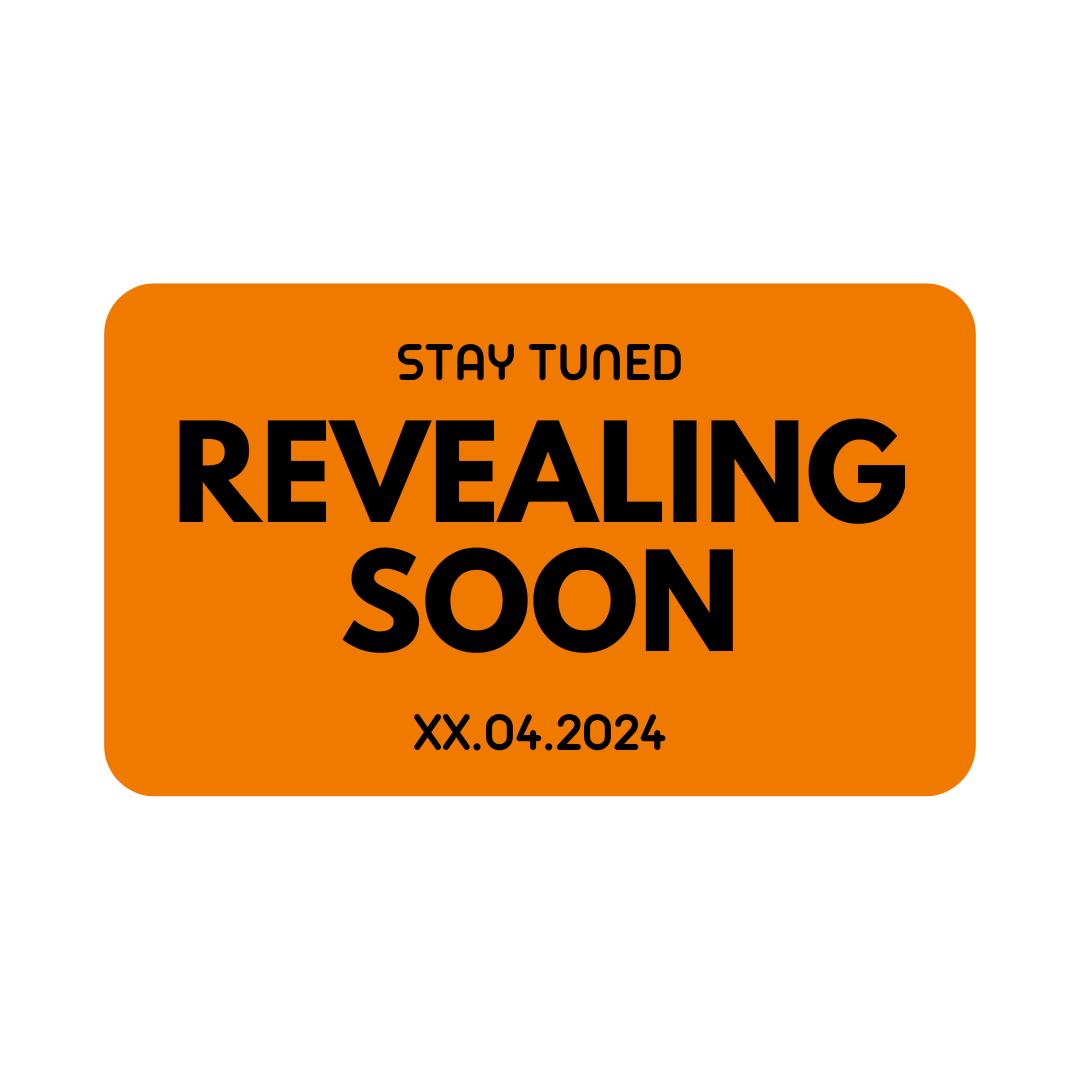
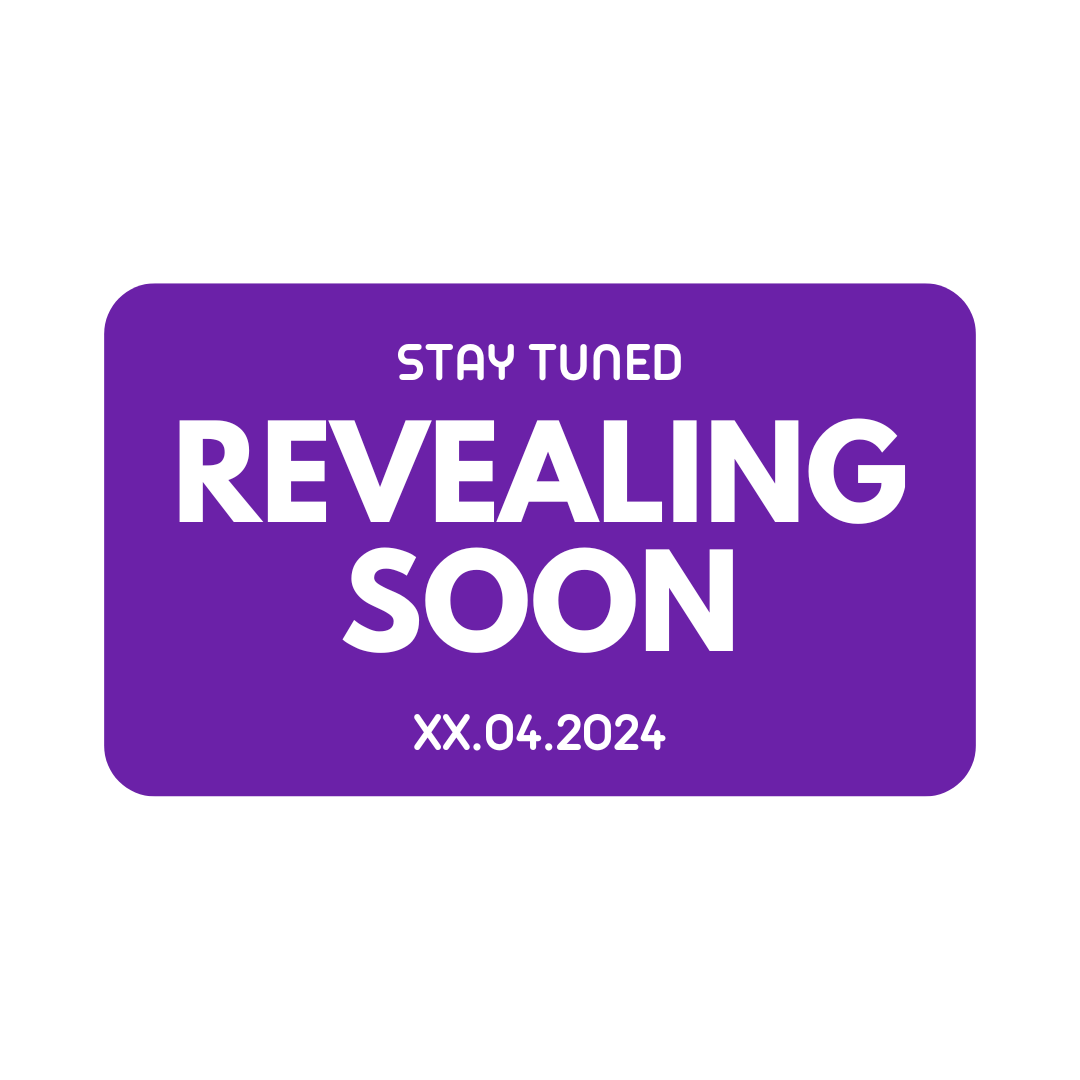
some changes

diff --git a/src/containers/Prizes.jsx b/src/containers/Prizes.jsx
@@ -1,5 +1,5 @@
 import React from "react";
-import prize from "../assets/comingsoon.jpeg";
+import prize from "../assets/comingsoon.png";
 import vector from "../assets/Vector.svg";
 import star2 from '../assets/star2.svg'
 import wolf from '../assets/wolfram-logo.png'
@@ -42,7 +42,7 @@ const Prizes = () => {
               </div>
               <div className="flex items-center justify-start w-full flex-col max-w-4xl lg:w-full">
                 <div className="flex items-center justify-between w-full flex-row border-t-2 border-white border-b-2 px-1 py-6">
-                  <h1 className="flex items-center justify-center gap-4 text-2xl xs:text-3xl s:text-4xl md:text-5xl lg:text-6xl xl:text-7xl text-[#ffffff] font-black">
+                  <h1 className="flex text-purple-800 items-center justify-center gap-4 text-2xl xs:text-3xl s:text-4xl md:text-5xl lg:text-6xl xl:text-7xl  font-black">
                     Prize Pool
                   </h1>
                   <h1 className="flex items-center justify-center gap-4 text-2xl xs:text-3xl s:text-4xl md:text-5xl lg:text-6xl xl:text-7xl text-[#ffffff] font-black">
@@ -58,7 +58,7 @@ const Prizes = () => {
                   </h1>
                 </div>
                 <div className="flex items-center justify-between w-full flex-row border-t-2 border-white border-b-2 px-1 py-6">
-                  <h1 className="flex items-center justify-center gap-4 text-2xl xs:text-3xl s:text-4xl md:text-5xl lg:text-6xl xl:text-7xl text-[#ffffff] font-black">
+                  <h1 className="flex items-center justify-center gap-4 text-2xl xs:text-3xl s:text-4xl md:text-5xl lg:text-6xl xl:text-7xl text-purple-800 font-black">
                     Goodies
                   </h1>
                   <h1 className="flex items-center justify-center gap-4 text-2xl xs:text-3xl s:text-4xl md:text-5xl lg:text-6xl xl:text-7xl text-[#ffffff] font-black">
@@ -114,7 +114,7 @@ const Prizes = () => {
       <section className="w-screen h-full md:overflow-hidden relative bg-black">
         <div className=" h-full flex flex-col items-center justify-center w-full z-[10] p-2">
           <div className="text-white z-10">
-            <div className=" xl:text-7xl lg:text-6xl md:text-4xl font-bold uppercase z-[10]">
+            <div className=" xl:text-7xl lg:text-6xl text-purple-800 md:text-4xl font-bold uppercase z-[10]">
               <p>Title Sponsor</p>
             </div>
           </div> 
@@ -135,7 +135,7 @@ const Prizes = () => {
             </Swiper>
           </div>
           <div className="text-white z-10">
-            <div className=" xl:text-7xl lg:text-6xl md:text-4xl font-bold uppercase z-[10]">
+            <div className=" xl:text-7xl text-purple-800 lg:text-6xl md:text-4xl font-bold uppercase z-[10]">
               <p>Platinum Sponsor</p>
             </div>
           </div>
@@ -170,7 +170,7 @@ const Prizes = () => {
             </Swiper>
           </div>
           <div className="text-white z-10">
-            <div className=" xl:text-7xl lg:text-6xl md:text-4xl  font-bold uppercase z-[10]">
+            <div className=" xl:text-7xl text-purple-800 lg:text-6xl md:text-4xl  font-bold uppercase z-[10]">
               <p>Gold Sponsor</p>
             </div>
           </div>
@@ -221,7 +221,7 @@ const Prizes = () => {
             </Swiper>
           </div>
           <div className="text-white z-10">
-            <div className=" xl:text-7xl lg:text-6xl md:text-4xl font-bold uppercase z-[10]">
+            <div className=" xl:text-7xl text-purple-800 lg:text-6xl md:text-4xl font-bold uppercase z-[10]">
               <p>Silver Sponsor</p>
             </div>
           </div>
@@ -280,7 +280,7 @@ const Prizes = () => {
             </Swiper>
           </div>
           <div className="text-white z-10">
-            <div className=" xl:text-7xl lg:text-6xl md:text-4xl  font-bold uppercase z-[10]">
+            <div className=" xl:text-7xl text-purple-800 lg:text-6xl md:text-4xl  font-bold uppercase z-[10]">
               <p>Bronze Sponsor</p>
             </div>
           </div>
@@ -353,16 +353,16 @@ const Prizes = () => {
 
         </div>
         <div className="h-screen hidden md:flex items-center justify-center absolute top-0 bottom-0 left-0 right-0  w-full ">
-          <div className="flex w-full h-full items-center  justify-center py-0 sm:py-2 md:py-4 lg:py-6"><marquee className="py-10 xs:py-12 rotate-[45deg] w-full h-full"><h1 className="flex items-center justify-center gap-4 text-2xl xs:text-3xl s:text-4xl md:text-5xl lg:text-6xl xl:text-7xl text-[#F07900]/20 font-black">DESIGN YOUR IDEAS <img className='w-8 h-8' src={star2} alt="star2" /> BUILD YOUR IDEAS</h1></marquee></div>
+          <div className="flex w-full h-full items-center  justify-center py-0 sm:py-2 md:py-4 lg:py-6"><marquee className="py-10 xs:py-12 rotate-[45deg] w-full h-full"><h1 className="flex items-center justify-center gap-4 text-2xl xs:text-3xl s:text-4xl md:text-5xl lg:text-6xl xl:text-7xl text-white/20 font-black">DESIGN YOUR IDEAS <img className='w-8 h-8' src={star2} alt="star2" /> BUILD YOUR IDEAS</h1></marquee></div>
         </div>
         <div className="h-screen hidden md:flex items-center justify-center w-full absolute top-0 bottom-0 left-0 right-0 ">
-          <div className="flex w-full h-full items-center  justify-center py-0 sm:py-2 md:py-4 lg:py-6"><marquee className="py-10 xs:py-12 rotate-[-45deg] w-full h-full"><h1 className="flex items-center justify-center gap-4 text-2xl xs:text-3xl s:text-4xl md:text-5xl lg:text-6xl xl:text-7xl text-[#F07900]/20 font-black">DESIGN YOUR IDEAS <img className='w-8 h-8' src={star2} alt="star2" /> BUILD YOUR IDEAS</h1></marquee></div>
+          <div className="flex w-full h-full items-center  justify-center py-0 sm:py-2 md:py-4 lg:py-6"><marquee className="py-10 xs:py-12 rotate-[-45deg] w-full h-full"><h1 className="flex items-center justify-center gap-4 text-2xl xs:text-3xl s:text-4xl md:text-5xl lg:text-6xl xl:text-7xl text-white/20 font-black">DESIGN YOUR IDEAS <img className='w-8 h-8' src={star2} alt="star2" /> BUILD YOUR IDEAS</h1></marquee></div>
         </div>
         <div className="h-screen hidden md:flex items-center justify-center w-full absolute top-0 bottom-0 left-0 right-0 ">
-          <div className="flex w-full h-full items-center  justify-center py-0 sm:py-2 md:py-4 lg:py-6"><marquee className="py-10 xs:py-12 rotate-[-135deg] w-full h-full"><h1 className="flex items-center justify-center gap-4 text-2xl xs:text-3xl s:text-4xl md:text-5xl lg:text-6xl xl:text-7xl text-[#F07900]/20 font-black">DESIGN YOUR IDEAS <img className='w-8 h-8' src={star2} alt="star2" /> BUILD YOUR IDEAS</h1></marquee></div>
+          <div className="flex w-full h-full items-center  justify-center py-0 sm:py-2 md:py-4 lg:py-6"><marquee className="py-10 xs:py-12 rotate-[-135deg] w-full h-full"><h1 className="flex items-center justify-center gap-4 text-2xl xs:text-3xl s:text-4xl md:text-5xl lg:text-6xl xl:text-7xl text-white/20 font-black">DESIGN YOUR IDEAS <img className='w-8 h-8' src={star2} alt="star2" /> BUILD YOUR IDEAS</h1></marquee></div>
         </div>
         <div className="h-screen hidden md:flex items-center justify-center w-full absolute top-0 bottom-0 left-0 right-0 ">
-          <div className="flex w-full h-full items-center  justify-center py-0 sm:py-2 md:py-4 lg:py-6"><marquee className="py-10 xs:py-12 rotate-[135deg] w-full h-full"><h1 className="flex items-center justify-center gap-4 text-2xl xs:text-3xl s:text-4xl md:text-5xl lg:text-6xl xl:text-7xl text-[#F07900]/20 font-black">DESIGN YOUR IDEAS <img className='w-8 h-8' src={star2} alt="star2" /> BUILD YOUR IDEAS</h1></marquee></div>
+          <div className="flex w-full h-full items-center  justify-center py-0 sm:py-2 md:py-4 lg:py-6"><marquee className="py-10 xs:py-12 rotate-[135deg] w-full h-full"><h1 className="flex items-center justify-center gap-4 text-2xl xs:text-3xl s:text-4xl md:text-5xl lg:text-6xl xl:text-7xl text-white/20 font-black">DESIGN YOUR IDEAS <img className='w-8 h-8' src={star2} alt="star2" /> BUILD YOUR IDEAS</h1></marquee></div>
         </div>
 
       </section>

diff --git a/src/App.js b/src/App.js
@@ -19,16 +19,16 @@ function App() {
     <>
     {loading && window.innerWidth>768 ? (<section className="md:flex hidden w-screen h-full overflow-hidden relative bg-black">
       <div className="h-screen flex items-center justify-center w-full ">
-                           <div className="flex w-full h-full items-center  justify-center py-0 sm:py-2 md:py-4 lg:py-6"><marquee className="py-10 xs:py-12 rotate-[45deg] w-full h-full" scrollamount="15"><h1 className="flex items-center justify-center gap-4 text-2xl xs:text-3xl s:text-4xl md:text-5xl lg:text-6xl xl:text-7xl text-[#F07900] font-black">DESIGN YOUR IDEAS <img className='w-8 h-8' src={star2} alt="star2"/> BUILD YOUR IDEAS</h1></marquee></div>
+                           <div className="flex w-full h-full items-center  justify-center py-0 sm:py-2 md:py-4 lg:py-6"><marquee className="py-10 xs:py-12 rotate-[45deg] w-full h-full" scrollamount="15"><h1 className="flex items-center justify-center gap-4 text-2xl xs:text-3xl s:text-4xl md:text-5xl lg:text-6xl xl:text-7xl text-purple-800 font-black">DESIGN YOUR IDEAS <img className='w-8 h-8' src={star2} alt="star2"/> BUILD YOUR IDEAS</h1></marquee></div>
                    </div>
       <div className="h-screen flex items-center justify-center w-full absolute top-0 bottom-0 left-0 right-0 ">
-                           <div className="flex w-full h-full items-center  justify-center py-0 sm:py-2 md:py-4 lg:py-6"><marquee className="py-10 xs:py-12 rotate-[-45deg] w-full h-full" scrollamount="15"><h1 className="flex items-center justify-center gap-4 text-2xl xs:text-3xl s:text-4xl md:text-5xl lg:text-6xl xl:text-7xl text-[#F07900] font-black">DESIGN YOUR IDEAS <img className='w-8 h-8' src={star2} alt="star2"/> BUILD YOUR IDEAS</h1></marquee></div>
+                           <div className="flex w-full h-full items-center  justify-center py-0 sm:py-2 md:py-4 lg:py-6"><marquee className="py-10 xs:py-12 rotate-[-45deg] w-full h-full" scrollamount="15"><h1 className="flex items-center justify-center gap-4 text-2xl xs:text-3xl s:text-4xl md:text-5xl lg:text-6xl xl:text-7xl text-purple-800 font-black">DESIGN YOUR IDEAS <img className='w-8 h-8' src={star2} alt="star2"/> BUILD YOUR IDEAS</h1></marquee></div>
                    </div>
       <div className="h-screen flex items-center justify-center w-full absolute top-0 bottom-0 left-0 right-0 ">
-                           <div className="flex w-full h-full items-center  justify-center py-0 sm:py-2 md:py-4 lg:py-6"><marquee className="py-10 xs:py-12 rotate-[-135deg] w-full h-full" scrollamount="15"><h1 className="flex items-center justify-center gap-4 text-2xl xs:text-3xl s:text-4xl md:text-5xl lg:text-6xl xl:text-7xl text-[#F07900] font-black">DESIGN YOUR IDEAS <img className='w-8 h-8' src={star2} alt="star2"/> BUILD YOUR IDEAS</h1></marquee></div>
+                           <div className="flex w-full h-full items-center  justify-center py-0 sm:py-2 md:py-4 lg:py-6"><marquee className="py-10 xs:py-12 rotate-[-135deg] w-full h-full" scrollamount="15"><h1 className="flex items-center justify-center gap-4 text-2xl xs:text-3xl s:text-4xl md:text-5xl lg:text-6xl xl:text-7xl text-purple-800 font-black">DESIGN YOUR IDEAS <img className='w-8 h-8' src={star2} alt="star2"/> BUILD YOUR IDEAS</h1></marquee></div>
                    </div>
       <div className="h-screen flex items-center justify-center w-full absolute top-0 bottom-0 left-0 right-0 ">
-                           <div className="flex w-full h-full items-center  justify-center py-0 sm:py-2 md:py-4 lg:py-6"><marquee className="py-10 xs:py-12 rotate-[135deg] w-full h-full" scrollamount="15"><h1 className="flex items-center justify-center gap-4 text-2xl xs:text-3xl s:text-4xl md:text-5xl lg:text-6xl xl:text-7xl text-[#F07900] font-black">DESIGN YOUR IDEAS <img className='w-8 h-8' src={star2} alt="star2"/> BUILD YOUR IDEAS</h1></marquee></div>
+                           <div className="flex w-full h-full items-center  justify-center py-0 sm:py-2 md:py-4 lg:py-6"><marquee className="py-10 xs:py-12 rotate-[135deg] w-full h-full" scrollamount="15"><h1 className="flex items-center justify-center gap-4 text-2xl xs:text-3xl s:text-4xl md:text-5xl lg:text-6xl xl:text-7xl text-purple-800 font-black">DESIGN YOUR IDEAS <img className='w-8 h-8' src={star2} alt="star2"/> BUILD YOUR IDEAS</h1></marquee></div>
                    </div>
       </section>
       

diff --git a/src/containers/Socials.jsx b/src/containers/Socials.jsx
@@ -18,7 +18,7 @@ const Socials = () => {
            <div className='flex items-center justify-center flex-1 py-4 md:p-4 flex-col gap-4 w-full h-full'>
            <div className='w-full h-full flex items-center  justify-center flex-col gap-4'>
                  <div className='flex items-center justify-center'>
-                 <h1 className='text-[2.25rem]  xs:text-[2.7rem] sm:text-5xl lg:text-6xl font-black sm:leading-tight text-[#ffffff] whitespace-nowrap'>FOLLOW US</h1>
+                 <h1 className='text-[2.25rem]  xs:text-[2.7rem] sm:text-5xl lg:text-6xl font-black sm:leading-tight text-purple-800 whitespace-nowrap'>FOLLOW US</h1>
                  </div>
                  <div className='flex items-center justify-center'>
                  <h1 className='text-[2rem]  lg:text-[2.7rem] font-black sm:leading-tight text-[#ffffff] whitespace-nowrap'>INSTAGRAM</h1>
@@ -28,7 +28,7 @@ const Socials = () => {
                  </div>
                  <div className='flex items-center justify-center'>
                  <Link to="https://instagram.com/codechef_cuiet?igshid=YmMyMTA2M2Y=" className='flex items-center justify-center'>
-                 <h1 className='text-[1.5rem]  lg:text-[2.7rem] font-black sm:leading-tight text-[#ffffff] whitespace-nowrap'>@codingninjas_cuiet</h1>
+                 <h1 className='text-[1.5rem]  lg:text-[2.7rem] font-black sm:leading-tight text-purple-800 whitespace-nowrap'>@codingninjas_cuiet</h1>
                  </Link>
                  </div>
            </div>
